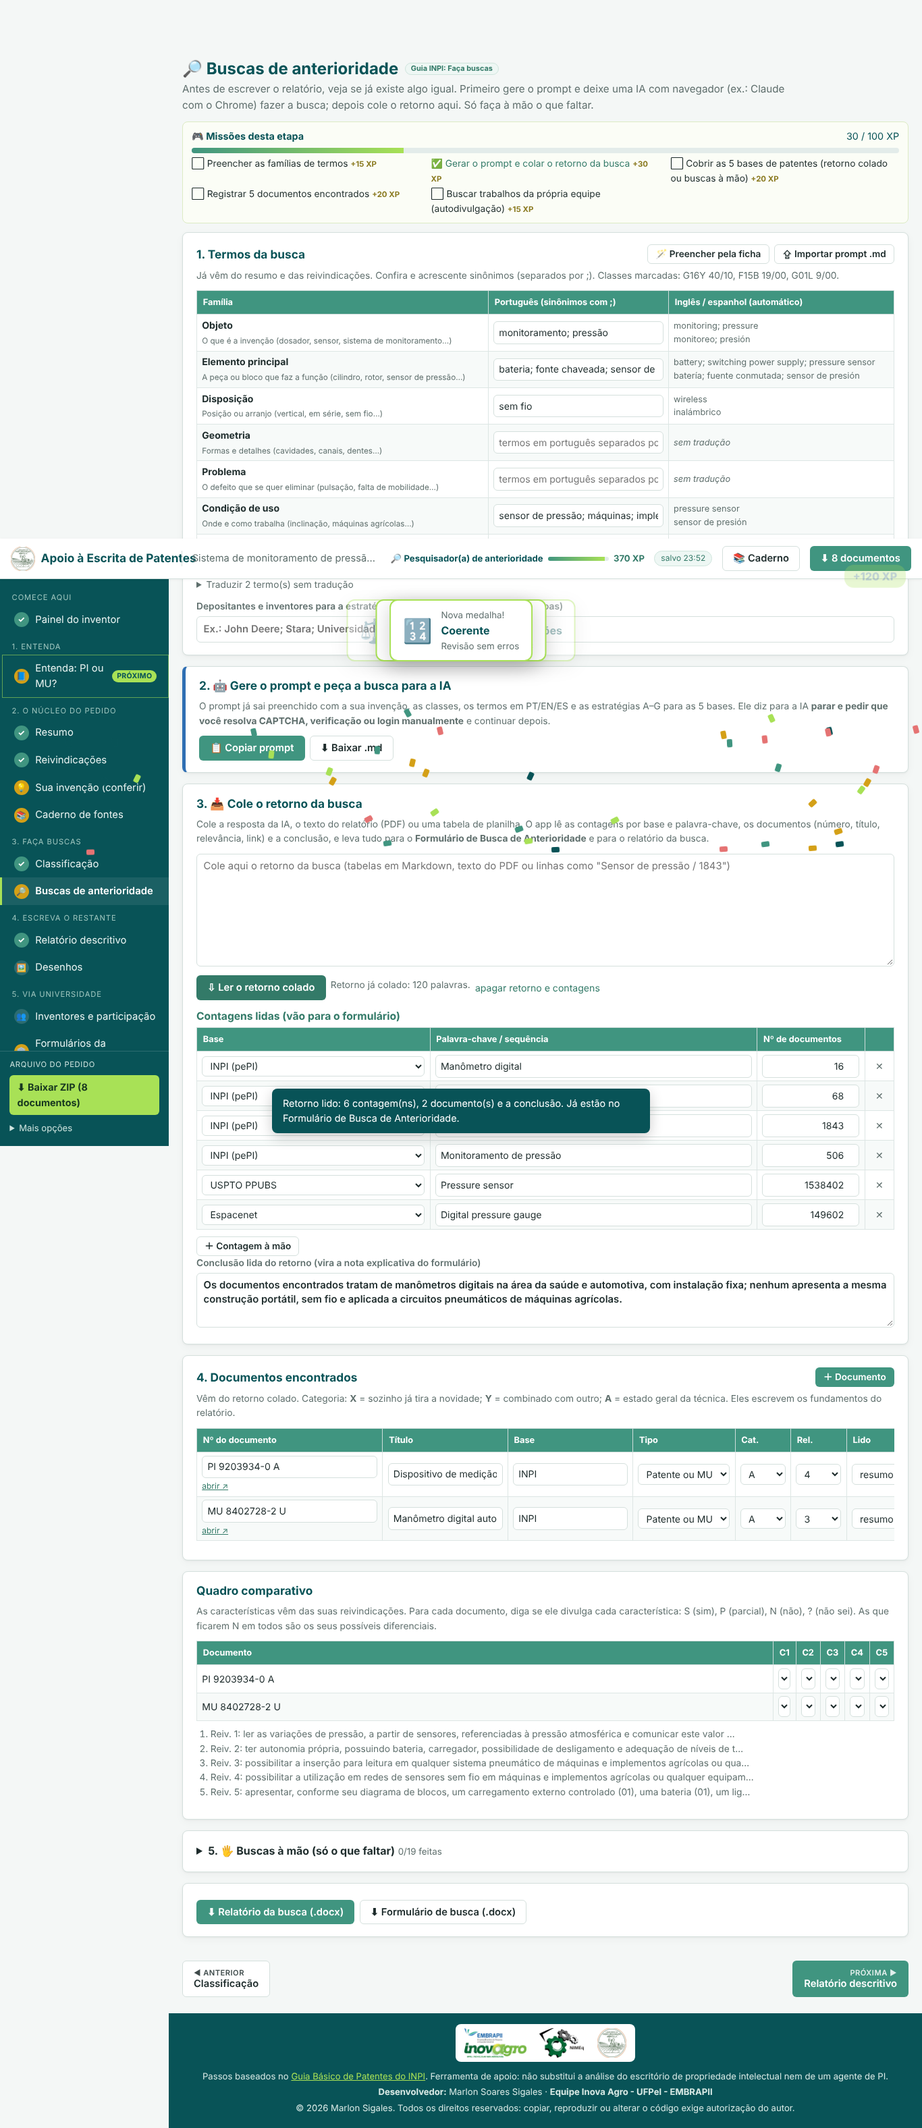
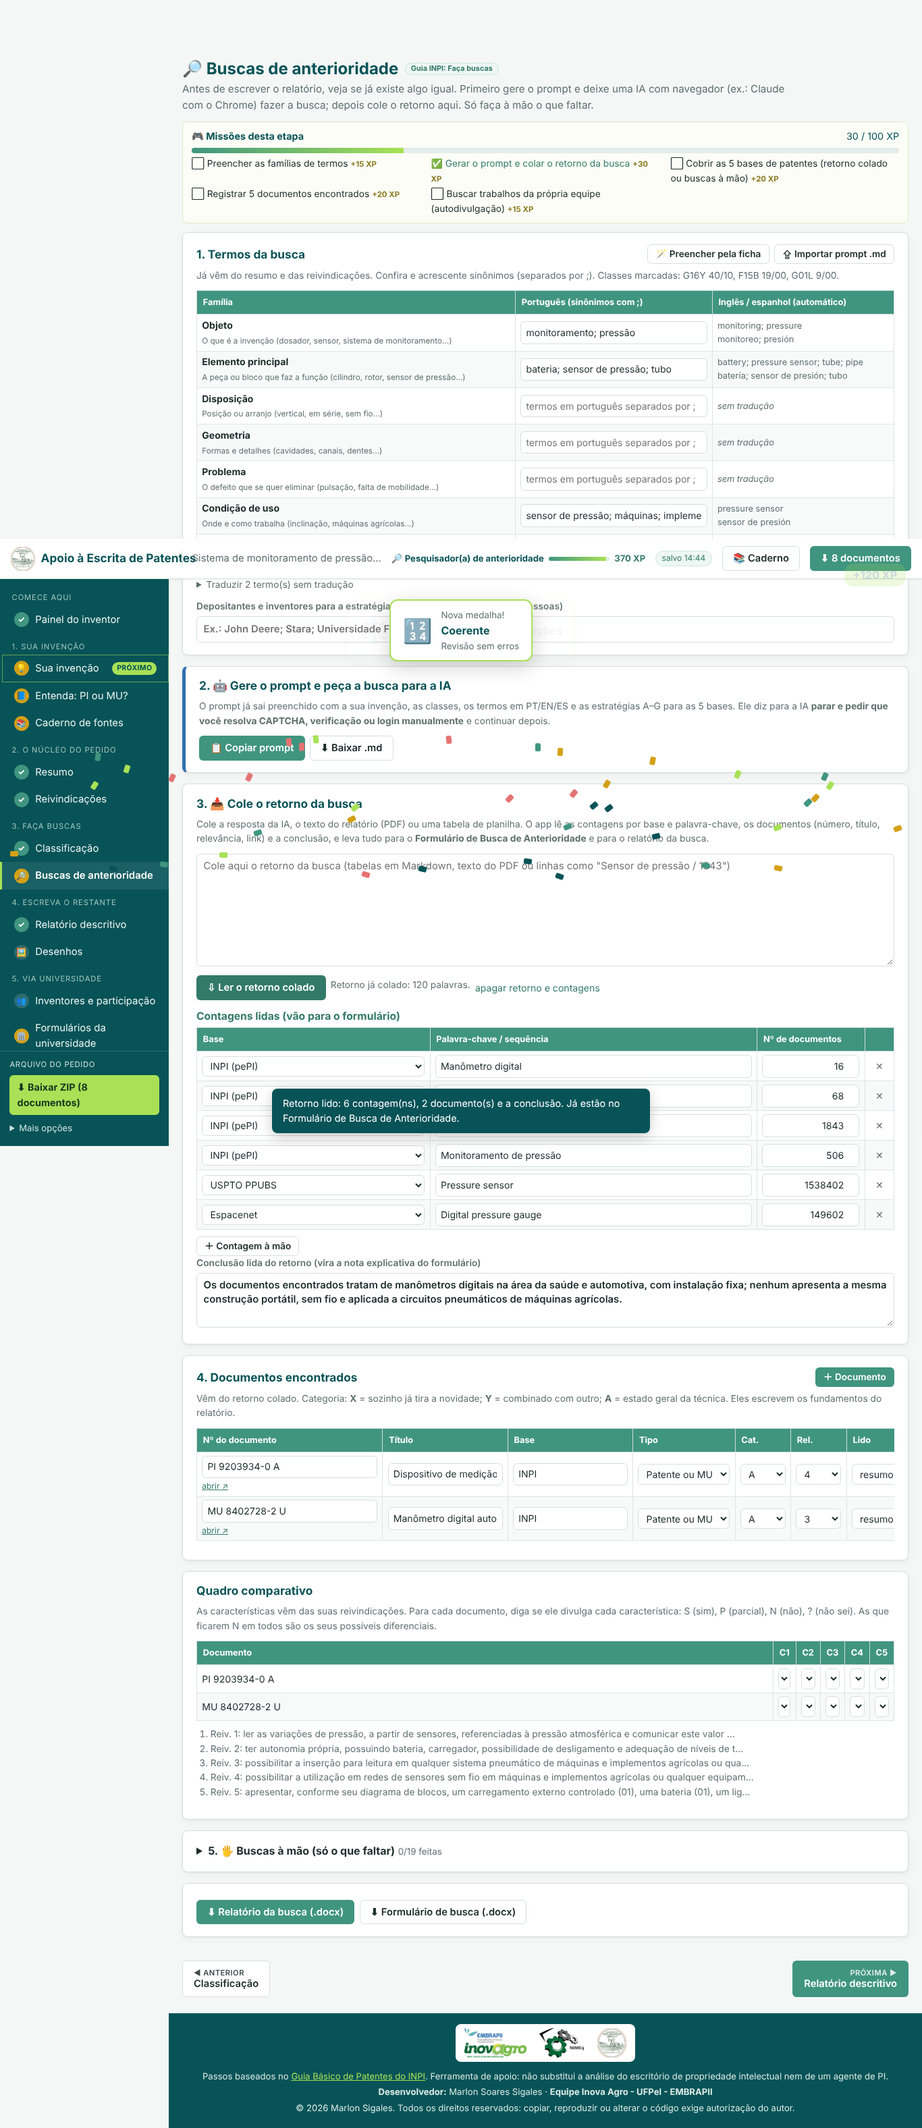
Começar do zero apaga de verdade (dados e figuras); 'Sua invenção' vira a 1ª aba e pré-preenche resumo, reivindicações e as demais abas
Claude-Session: https://claude.ai/code/session_01GS2mRpcjQcbskGWqHzAMgd

diff --git a/js/etapas.js b/js/etapas.js
@@ -50,7 +50,7 @@ PAGINAS.inicio = {
         const pl = App.placar;
         const prox = proximaEtapa();
         const pct = pl.total ? Math.round(100 * pl.xp / pl.total) : 0;
-        return `${cabecalho('inicio', 'Escreva seu pedido de patente passo a passo, seguindo o Guia Básico do INPI e o caminho da universidade. Comece pelo <b>resumo</b> e pelas <b>reivindicações</b>: delas saem a ficha, as buscas, o relatório, os desenhos e os formulários. Cada missão cumprida dá XP. No fim, você recebe os 8 documentos prontos.')}
+        return `${cabecalho('inicio', 'Escreva seu pedido de patente passo a passo, seguindo o Guia Básico do INPI e o caminho da universidade. Comece pela ficha <b>Sua invenção</b>: dela saem o resumo, as reivindicações, as buscas, o relatório, os desenhos e os formulários da universidade. Cada missão cumprida dá XP. No fim, você recebe os 8 documentos prontos.')}
         <div class="painel-jogo card">
             <div class="nivel"><span class="nivel-icone">${pl.nivel[2]}</span><div><small>Seu nível</small><b>${esc(pl.nivel[1])}</b><span>${pl.xp} XP${pl.prox ? ` · faltam ${pl.prox[0] - pl.xp} XP para <b>${esc(pl.prox[1])}</b>` : ''}</span></div></div>
             <div class="barra-xp grande"><i style="width:${pct}%"></i></div><small>${pct}% do pedido completo</small>
@@ -62,7 +62,7 @@ PAGINAS.inicio = {
             <button type="button" class="opcao" data-acao="importar-md"><b>⇪ Tenho o prompt da busca (.md)</b><span>Preenche ficha, termos, classes e buscas a partir do prompt de anterioridade.</span></button>
             <button type="button" class="opcao" data-acao="importar-docx"><b>📄 Tenho um pedido em Word</b><span>Lê Relatório, Reivindicações, Desenhos e Resumo (.docx) e preenche tudo.</span></button>
             <button type="button" class="opcao" data-acao="exemplo" data-ex="pressao"><b>🧪 Ver exemplo completo</b><span>Sistema de monitoramento de pressão para circuitos pneumáticos.</span></button>
-            <a class="opcao" href="#/resumo"><b>✍ Começar do zero</b><span>Escreva o resumo e as reivindicações: o app pré-preenche o resto.</span></a>
+            <button type="button" class="opcao" data-acao="novo"><b>🗑 Começar do zero</b><span>Apaga tudo deste navegador e abre a ficha "Sua invenção" em branco.</span></button>
         </div></div>
         <div class="card"><h2>🏅 Medalhas</h2><div class="medalhas">${pl.medalhas.map(m => `<div class="medalha ${m.ok ? 'ganha' : ''}" title="${escAttr(m.desc)}"><span>${m.icone}</span><b>${esc(m.nome)}</b><small>${esc(m.desc)}</small></div>`).join('')}</div></div>
         <div class="card"><h2>O caminho</h2><ol class="trilha">${ETAPAS.filter(e => e.id !== 'inicio').map(e => { const st = estadoEtapa(pl, e.id); return `<li class="${st}"><a href="#/${e.id}">${e.icone} ${esc(e.titulo)}</a> <small>${pl.porEtapa[e.id] ? pl.porEtapa[e.id].feitas + '/' + pl.porEtapa[e.id].total : ''}</small></li>`; }).join('')}</ol></div>`;
@@ -102,9 +102,13 @@ PAGINAS.entenda = {
 PAGINAS.ficha = {
     render(p) {
         const f = p.ficha;
-        return `${cabecalho('ficha', 'Esta ficha já vem pré-preenchida pelo resumo e pelas reivindicações. Confira e complete (principalmente o problema e o que existe hoje): ela alimenta a classificação, as buscas, o relatório, os desenhos e os formulários da universidade.')}
+        return `${cabecalho('ficha', 'Comece por aqui. Conte a invenção com as suas palavras: desta ficha saem os rascunhos do resumo e das reivindicações, a classificação, os termos das buscas, o relatório, os desenhos e os formulários da universidade. Se você já tem o resumo e as reivindicações escritos, cole-os nas abas deles: a ficha é completada a partir deles.')}
+        <div class="card"><div class="botoes"><button type="button" class="btn btn-primary" data-acao="pre-preencher">⚡ Pré-preencher as outras abas com esta ficha</button></div>
+        <p class="nota">O pré-preenchimento também acontece sozinho quando você abre as próximas abas. Ele só completa o que está vazio.</p></div>
         <div class="card"><div class="grade-campos">
             ${campo('titulo', 'Título', { largo: true, dica: 'curto, técnico, sem marca' })}
+            ${campo('natureza', 'Tipo de pedido', { tipo: 'select', opts: [['', '— escolher (veja a aba Entenda) —'], ['PI', 'Patente de invenção (PI)'], ['MU', 'Modelo de utilidade (MU)']] })}
+            ${campo('contexto.inventores', 'Inventores (um por linha)', { tipo: 'textarea', linhas: 3, dica: 'vão para a aba Inventores' })}
             ${campo('area', 'Área técnica', { ph: 'Ex.: máquinas agrícolas, eletrônica embarcada' })}
             ${campo('contexto.instituicao', 'Instituição')}
             ${campo('ficha.campo', 'Para que serve (campo da invenção)', { tipo: 'textarea', largo: true, linhas: 2, ph: 'Ex.: um sistema eletrônico para monitorar a pressão de circuitos pneumáticos' })}
@@ -238,7 +242,7 @@ PAGINAS.relatorio = {
 PAGINAS.reivindicacoes = {
     render(p) {
         const rs = p.reivindicacoes;
-        return `${cabecalho('reivindicacoes', 'Logo depois do resumo: as reivindicações definem o que fica protegido. Cada uma é uma única frase. O app escreve o começo (título + “caracterizado por”) e usa o texto delas para pré-preencher a ficha, as buscas e o relatório.')}
+        return `${cabecalho('reivindicacoes', 'As reivindicações definem o que fica protegido. Cada uma é uma única frase. O rascunho vem da ficha (solução e componentes); o app escreve o começo (título + “caracterizado por”) e usa o texto delas para completar as buscas e o relatório.')}
         <div class="card"><div class="botoes">${!rs.length && p.ficha.componentes.length ? '<button type="button" class="btn btn-secondary" data-acao="rascunho-reivindicacoes">✨ Montar a partir dos componentes</button>' : ''}<button type="button" class="btn btn-secondary" data-acao="add-reivindicacao">＋ Reivindicação</button><button type="button" class="btn btn-primary" data-acao="pre-preencher">⚡ Pré-preencher o pedido</button><button type="button" class="btn btn-secondary" data-acao="baixar-doc" data-doc="reivindicacoes">⬇ Baixar .docx</button></div>
         <p class="nota">A <b>1ª reivindicação</b> diz o essencial da invenção (o que não pode faltar). As <b>dependentes</b> acrescentam um detalhe cada: alimentação, forma de fixação, aplicação, diagrama de blocos com os números (01), (02)…</p>
         <p class="nota">${p.natureza === 'MU' ? 'Modelo de utilidade: uma só reivindicação independente, descrevendo a forma ou disposição.' : 'Patente de invenção: pode ter mais de uma independente (ex.: produto e processo).'} Evite: etc., aproximadamente, preferencialmente, "conforme a figura".</p></div>
@@ -267,7 +271,7 @@ PAGINAS.desenhos = {
 PAGINAS.resumo = {
     render(p) {
         const n = palavras(p.resumo);
-        return `${cabecalho('resumo', 'Comece por aqui: o resumo diz, em 50 a 200 palavras, o que é a invenção, como é composta (com os números de referência) e onde é aplicada. Junto com as reivindicações, ele pré-preenche o resto do pedido.')}
+        return `${cabecalho('resumo', 'O resumo diz, em 50 a 200 palavras, o que é a invenção, como é composta (com os números de referência) e onde é aplicada. Ele já vem como rascunho da ficha "Sua invenção"; revise. Junto com as reivindicações, ele completa o que faltar no resto do pedido.')}
         <div class="card"><div class="grade-campos">${campo('titulo', 'Título', { largo: true, dica: 'curto, técnico, sem marca — vai no topo de todos os documentos', ph: 'Ex.: Sistema de monitoramento de pressão para circuitos pneumáticos' })}</div>
         <details class="nota" ${p.resumo ? '' : 'open'}><summary>Modelo para começar</summary><p>O presente ${nomeNatureza(p)} trata de <b>[o que é]</b> (FIGURA 1) com <b>[componente principal (01)]</b> que <b>[o que faz]</b>. <b>[Como funciona, citando (02), (03)…]</b>. Além disso, <b>[vantagem]</b>. Esse dispositivo será aplicado em <b>[aplicações]</b>.</p>
         <button type="button" class="btn btn-secondary btn-sm" data-acao="modelo-resumo">Usar este modelo</button></details>

diff --git a/index.html b/index.html
@@ -8,8 +8,8 @@
     <meta name="description" content="Escreva seu pedido de patente passo a passo (Guia Básico do INPI), com buscas de anterioridade, classificação por aproximação, caderno de fontes e os 8 documentos prontos para a universidade e o INPI.">
     <link rel="icon" type="image/png" href="img/icone-instagri.png">
     <link rel="apple-touch-icon" href="img/icone-instagri-180.png">
-    <link rel="stylesheet" href="css/style.css?v=20261104b">
-    <link rel="stylesheet" href="css/patentes.css?v=20261104b">
+    <link rel="stylesheet" href="css/style.css?v=20261104c">
+    <link rel="stylesheet" href="css/patentes.css?v=20261104c">
 </head>
 <body>
     <header class="topbar">
@@ -38,7 +38,7 @@
                         <button type="button" class="sidebar-arquivo-link" data-acao="importar-md">⇪ Importar prompt de busca (.md)</button>
                         <button type="button" class="sidebar-arquivo-link" data-acao="importar-docx">📄 Importar pedido em Word (.docx)</button>
                         <button type="button" class="sidebar-arquivo-link" data-acao="exemplo" data-ex="pressao">🧪 Exemplo completo</button>
-                        <button type="button" class="sidebar-arquivo-link" data-acao="novo">✚ Novo pedido</button>
+                        <button type="button" class="sidebar-arquivo-link" data-acao="novo">🗑 Começar do zero (apagar tudo)</button>
                         <button type="button" class="sidebar-arquivo-link" data-acao="tour">❓ Como usar (tour)</button>
                     </div>
                 </details>
@@ -74,16 +74,16 @@
     <input type="file" id="arq" hidden>
 
     <script src="lib/jszip.min.js"></script>
-    <script src="js/dados.js?v=20261104b"></script>
-    <script src="js/ipc.js?v=20261104b"></script>
-    <script src="js/buscas.js?v=20261104b"></script>
-    <script src="js/fontes.js?v=20261104b"></script>
-    <script src="js/redacao.js?v=20261104b"></script>
-    <script src="js/preenche.js?v=20261104b"></script>
-    <script src="js/documentos.js?v=20261104b"></script>
-    <script src="js/jogo.js?v=20261104b"></script>
-    <script src="js/exemplo.js?v=20261104b"></script>
-    <script src="js/etapas.js?v=20261104b"></script>
-    <script src="js/app.js?v=20261104b"></script>
+    <script src="js/dados.js?v=20261104c"></script>
+    <script src="js/ipc.js?v=20261104c"></script>
+    <script src="js/buscas.js?v=20261104c"></script>
+    <script src="js/fontes.js?v=20261104c"></script>
+    <script src="js/redacao.js?v=20261104c"></script>
+    <script src="js/preenche.js?v=20261104c"></script>
+    <script src="js/documentos.js?v=20261104c"></script>
+    <script src="js/jogo.js?v=20261104c"></script>
+    <script src="js/exemplo.js?v=20261104c"></script>
+    <script src="js/etapas.js?v=20261104c"></script>
+    <script src="js/app.js?v=20261104c"></script>
 </body>
 </html>

diff --git a/js/app.js b/js/app.js
@@ -109,7 +109,7 @@ async function hidratarImagens() {
 function rota() {
     const id = (location.hash.match(/^#\/([\w-]+)/) || [])[1] || 'inicio';
     App.pagina = PAGINAS[id] ? id : 'inicio';
-    if (['ficha', 'classificacao', 'buscas', 'relatorio', 'desenhos', 'inventores', 'universidade', 'revisao', 'entrega'].includes(App.pagina) && (App.p.resumo.trim() || App.p.reivindicacoes.length)) {
+    if (App.pagina !== 'inicio' && App.pagina !== 'ficha' && temBase(App.p)) {
         const feito = autoPreencher(App.p);
         if (feito.length) { salvar(); atualizarPlacar(); avisar('⚡ Pré-preenchido com o que você já escreveu: ' + feito.slice(0, 6).join(', ') + (feito.length > 6 ? '…' : ''), 'ok', 6000); }
     }
@@ -260,9 +260,17 @@ const ACOES = {
         App.placar = null; salvar(); atualizarPlacar(false); location.hash = '#/inicio'; renderPagina();
         avisar('Exemplo carregado. Explore as etapas!');
     },
-    'novo'() {
-        if (temConteudo() && !confirm('Começar um pedido novo? O atual será apagado deste navegador (baixe o ZIP antes).')) return;
-        App.p = normalizarPedido(pedidoVazio()); App.placar = null; salvar(); atualizarPlacar(false); location.hash = '#/inicio'; renderPagina();
+    'novo': async () => {
+        if (temConteudo() && !confirm('Apagar tudo e começar do zero? O pedido atual, as fontes e as figuras serão apagados deste navegador (baixe o ZIP antes se quiser guardar).')) return;
+        clearTimeout(App._t); clearTimeout(App._tp);
+        Armazem.apagar();
+        await Imagens.limpar();
+        App.p = normalizarPedido(pedidoVazio());
+        Armazem.salvar(App.p);
+        App.placar = null; atualizarPlacar(false);
+        $('#topbar-selo').textContent = 'pedido novo';
+        if (location.hash === '#/ficha') renderPagina(); else location.hash = '#/ficha';
+        avisar('Tudo limpo. Comece pela ficha "Sua invenção".', 'ok', 5000);
     },
     'abrir': async () => {
         const [a] = await escolherArquivo('.zip,.json');
@@ -343,6 +351,8 @@ document.addEventListener('click', e => {
     if (f) { e.preventDefault(); f(el); }
 });
 
+/** Há de onde pré-preencher? (ficha da invenção, resumo ou reivindicações) */
+function temBase(p) { const f = p.ficha; return !!(f.campo.trim() || f.solucao.trim() || f.problema.trim() || f.componentes.length || p.resumo.trim() || p.reivindicacoes.some(r => r.texto.trim())); }
 function temConteudo() { const p = App.p; return !!(p.titulo || p.ficha.solucao || p.reivindicacoes.length || p.resumo); }
 
 // ------------------------------------------------------------ caderno lateral (perguntar às fontes)

diff --git a/js/preenche.js b/js/preenche.js
@@ -49,6 +49,18 @@ function autoPreencher(p) {
     if (ind) put('ficha.solucao', `${primeiraMinuscula(p.titulo || 'a invenção')} caracterizado por ${semFinal(ind.texto)}`, 'solução');
     if (rs.length > 1) put('ficha.vantagens', rs.filter(r => r.dep).slice(0, 3).map(r => semFinal(r.texto)).join('; '), 'vantagens');
 
+    // 1b) ficha → resumo e reivindicações (quando o aluno começou pela ficha)
+    const f0 = p.ficha;
+    const fichaTem = !!(f0.campo.trim() || f0.solucao.trim()) && !!p.titulo.trim();
+    if (fichaTem && !p.resumo.trim() && !p.autoFeito.resumo) {
+        const t = RASCUNHOS.resumo(p);
+        if (t) { p.resumo = t; p.autoFeito.resumo = 1; feito.push('resumo'); }
+    }
+    if (fichaTem && (f0.solucao.trim() || f0.componentes.length) && !p.reivindicacoes.some(r => r.texto.trim()) && !p.autoFeito.reivindicacoes) {
+        p.reivindicacoes = rascunhoReivindicacoes(p); p.autoFeito.reivindicacoes = 1; feito.push(p.reivindicacoes.length + ' reivindicações');
+    }
+    if (!p.contexto.depositante && p.contexto.instituicao && !p.autoFeito.depositante) { p.contexto.depositante = p.contexto.instituicao; p.autoFeito.depositante = 1; }
+
     // 2) ficha → busca (termos) e classificação
     const antes = JSON.stringify(p.busca.termos);
     if (!p.autoFeito.termos && (p.titulo || p.ficha.solucao)) { preencherTermos(p); if (JSON.stringify(p.busca.termos) !== antes) { p.autoFeito.termos = 1; feito.push('termos da busca'); } }
@@ -87,7 +99,7 @@ function autoPreencher(p) {
     const empresas = [f.concorrentes, ...new Set(p.busca.resultados.map(x => x.depositante).filter(Boolean))].filter(Boolean).join('; ');
     put('universidade.empresasMercado', empresas, 'formulário 2.4');
     if (p.titulo) put('universidade.objetoProjeto', `O desenvolvimento do ${maiusculo(p.titulo)} faz parte de ${{ TCC: 'um Trabalho de Conclusão de Curso', Tese: 'uma Tese', 'Dissertação': 'uma Dissertação', Pesquisa: 'um projeto de pesquisa', 'Extensão': 'um projeto de extensão' }[u.tipoProjeto] || 'um projeto'}${f.campo ? ' e tem o objetivo de oferecer ' + primeiraMinuscula(f.campo) : ''}.`, 'objeto do projeto');
-    put('universidade.memorando.data', hojeISO(), 'data do memorando');
+    if (p.titulo) put('universidade.memorando.data', hojeISO(), 'data do memorando');
     if (!u.areasAbrangidas.length && !p.autoFeito.areas) {
         const subs = classesBusca(p).map(subclasse);
         const a = new Set();

diff --git a/tests/testes.js b/tests/testes.js
@@ -22,6 +22,15 @@ function ok(cond, nome) { RES.push([!!cond, nome]); }
     ok(n.desenhos.length >= 1 && n.relatorio.campo && n.relatorio.descricao, 'e os desenhos e o relatório');
     ok(n.universidade.objetoProjeto && n.universidade.aplicacoesIndustriais, 'e os formulários da universidade');
     ok(autoPreencher(n).length === 0, 'não repreenche o que já preencheu');
+    // cadeia inversa: só a ficha → resumo e reivindicações
+    const fi = normalizarPedido(pedidoVazio());
+    Object.assign(fi, { natureza: 'MU', titulo: p.titulo });
+    Object.assign(fi.ficha, { campo: p.ficha.campo, solucao: p.ficha.solucao, componentes: p.ficha.componentes.slice(0, 4), aplicacoes: p.ficha.aplicacoes });
+    autoPreencher(fi);
+    ok(fi.resumo && fi.reivindicacoes.length >= 2 && fi.relatorio.campo && fi.universidade.objetoProjeto, 'a ficha pré-preenche resumo, reivindicações, relatório e universidade');
+    ok(ETAPAS[1].id === 'ficha', '"Sua invenção" é a primeira aba depois do Início');
+    const vz = normalizarPedido(pedidoVazio());
+    ok(autoPreencher(vz).length === 0, 'pedido vazio continua vazio');
     const ret = lerRetornoBusca(RETORNO_EXEMPLO);
     ok(ret.registro.length === 6 && ret.registro.some(r => r.base === 'inpi' && r.n === 1843), 'lê contagens "palavra / nº" por base');
     ok(ret.resultados.length === 2 && ret.achou === false && /manômetros/.test(ret.nota), 'lê documentos, resultado e nota do retorno');

diff --git a/js/jogo.js b/js/jogo.js
@@ -13,11 +13,11 @@ const algum = t => String(t || '').trim().length > 0;
 /** Etapas na ordem do guia. grupo = título no menu. */
 const ETAPAS = [
     { id: 'inicio', grupo: 'Comece aqui', titulo: 'Painel do inventor', icone: '🏠' },
-    { id: 'entenda', grupo: '1. Entenda', titulo: 'Entenda: PI ou MU?', icone: '📘', guia: 'Entenda' },
+    { id: 'ficha', grupo: '1. Sua invenção', titulo: 'Sua invenção', icone: '💡' },
+    { id: 'entenda', grupo: '1. Sua invenção', titulo: 'Entenda: PI ou MU?', icone: '📘', guia: 'Entenda' },
+    { id: 'fontes', grupo: '1. Sua invenção', titulo: 'Caderno de fontes', icone: '📚' },
     { id: 'resumo', grupo: '2. O núcleo do pedido', titulo: 'Resumo', icone: '✂' },
     { id: 'reivindicacoes', grupo: '2. O núcleo do pedido', titulo: 'Reivindicações', icone: '⚖' },
-    { id: 'ficha', grupo: '2. O núcleo do pedido', titulo: 'Sua invenção (conferir)', icone: '💡' },
-    { id: 'fontes', grupo: '2. O núcleo do pedido', titulo: 'Caderno de fontes', icone: '📚' },
     { id: 'classificacao', grupo: '3. Faça buscas', titulo: 'Classificação', icone: '🧭', guia: 'Faça buscas' },
     { id: 'buscas', grupo: '3. Faça buscas', titulo: 'Buscas de anterioridade', icone: '🔎', guia: 'Faça buscas' },
     { id: 'relatorio', grupo: '4. Escreva o restante', titulo: 'Relatório descritivo', icone: '📝', guia: 'Inicie o pedido' },

diff --git a/js/dados.js b/js/dados.js
@@ -152,6 +152,12 @@ const Imagens = {
             return await new Promise(ok => { const r = db.transaction('img').objectStore('img').get(id); r.onsuccess = () => ok(r.result || null); r.onerror = () => ok(null); });
         } catch (e) { return null; }
     },
+    /** Apaga todas as figuras guardadas (usado ao começar do zero). */
+    async limpar() {
+        for (const u of Object.values(this._urls)) URL.revokeObjectURL(u);
+        this._urls = {};
+        try { const db = await this.abrir(); await new Promise(ok => { const t = db.transaction('img', 'readwrite'); t.objectStore('img').clear(); t.oncomplete = ok; t.onerror = ok; }); } catch (e) { /* sem IndexedDB */ }
+    },
     _urls: {},
     async url(id) {
         if (this._urls[id]) return this._urls[id];

diff --git a/README.md b/README.md
@@ -11,7 +11,8 @@ local, com `python3 -m http.server`.
 
 1. **Jogo de missões.** Cada etapa tem missões que dão XP. O XP sobe o nível, de Curioso(a) até Inventor(a) completo(a), e os marcos dão medalhas.
    O XP é calculado do próprio pedido: se você apagar um texto, perde os pontos.
-2. **Começa pelo resumo e pelas reivindicações.** São as primeiras etapas depois do "Entenda". O texto delas pré-preenche, em cadeia:
+2. **Começa pela ficha "Sua invenção".** É a primeira aba depois do Início. Dela saem os rascunhos do **resumo** e das **reivindicações**.
+   Quem já tem o resumo e as reivindicações escritos pode colá-los: o app completa a ficha a partir deles. Juntos, eles pré-preenchem, em cadeia:
    - a ficha (campo, solução, componentes numerados, vantagens, aplicações);
    - os termos e as classes da busca;
    - os desenhos (quantas figuras há e as legendas);
@@ -66,6 +67,7 @@ local, com `python3 -m http.server`.
 - Tudo fica **no navegador**: o texto no `localStorage` e as figuras no IndexedDB. Nada vai para um servidor.
 - O ZIP final leva os 8 documentos, o `pedido.json`, as imagens e o prompt `.md`. Para continuar o pedido, abra o ZIP em "Abrir pedido".
 - O CPF, o endereço e o telefone dos inventores entram só nos formulários da universidade. **Não publique o ZIP** nem cole esses dados numa IA.
+- "Começar do zero" (no Painel ou em Mais opções) apaga o pedido, as fontes e as figuras deste navegador.
 - O exemplo é o sistema de monitoramento de pressão para circuitos pneumáticos, com o retorno da busca colado do formulário. Os inventores do exemplo são fictícios.
 
 ## Estrutura do código
